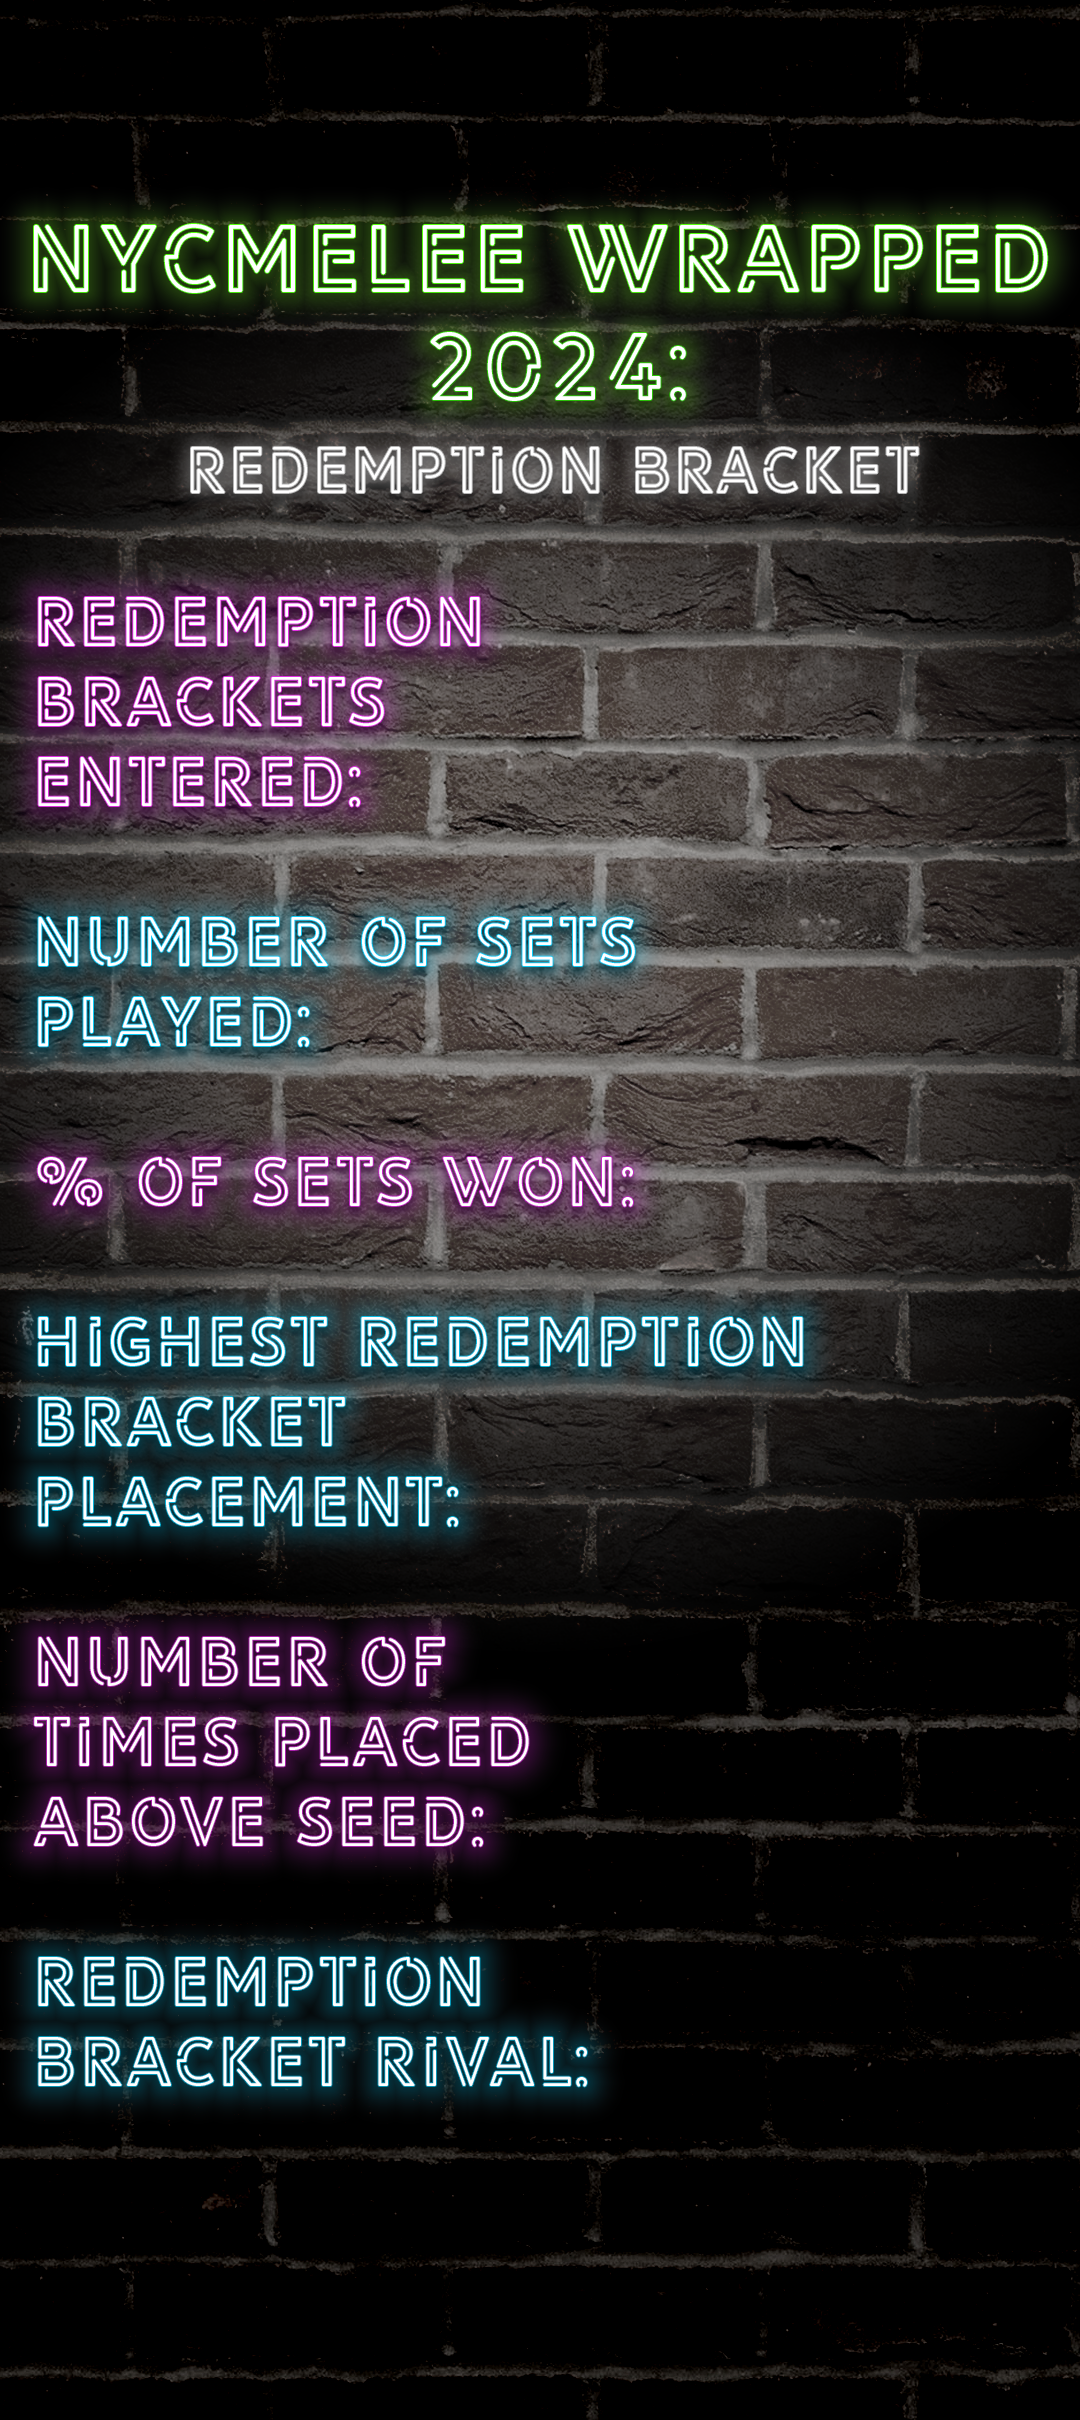
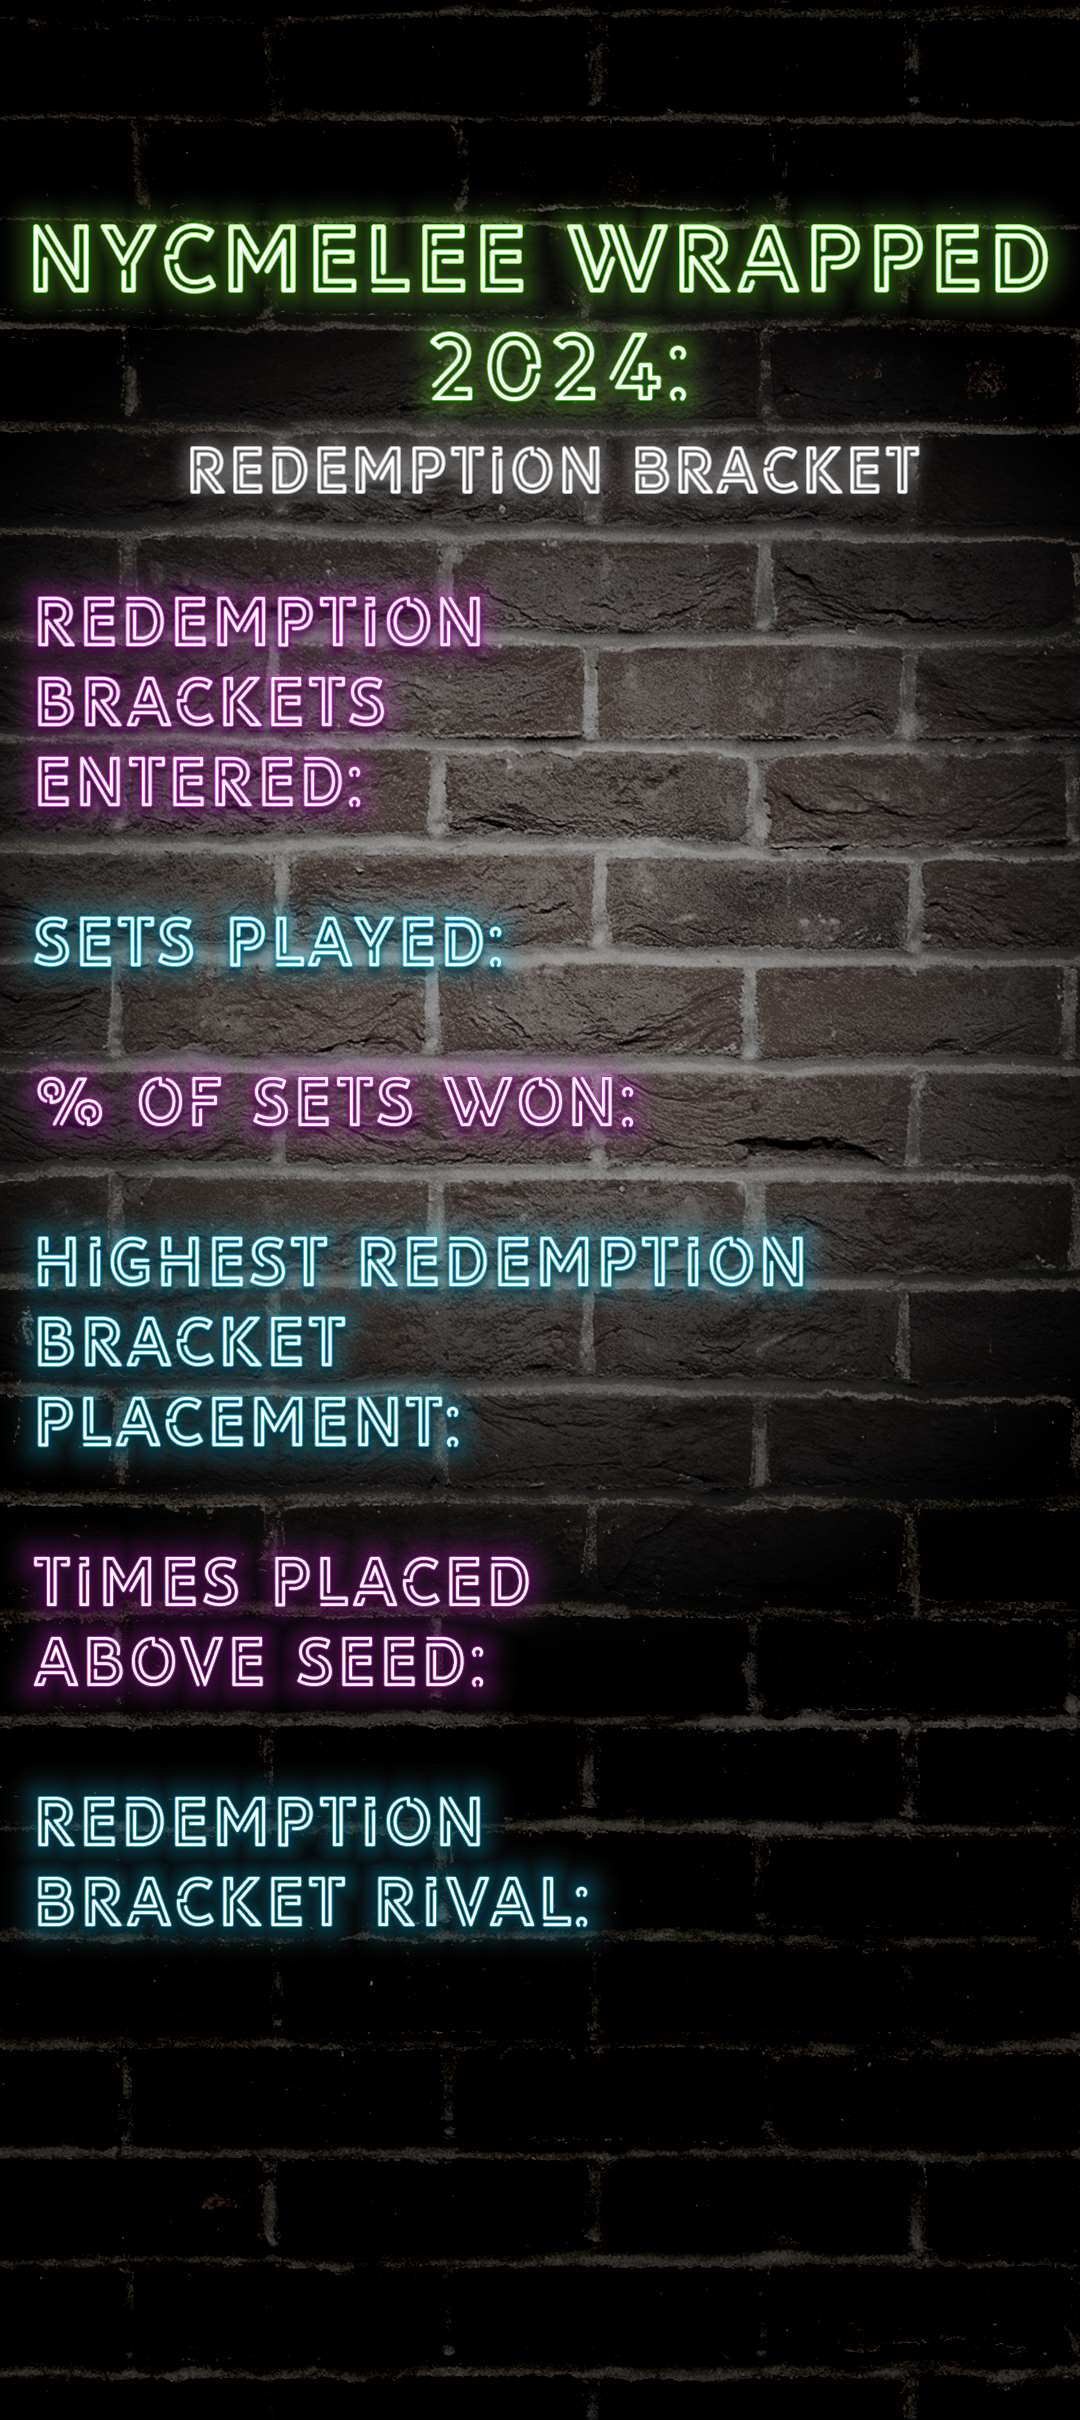
add updated backgrounds, adjust data location on image

Changed region(s): [[0.0, 0.3719, 0.7639, 0.8678]]

diff --git a/nightclub-wrapped-app/src/NightclubCanvasStats/index.js b/nightclub-wrapped-app/src/NightclubCanvasStats/index.js
@@ -81,22 +81,22 @@ export default function NightclubStatsImage() {
 
           ctx.drawImage(nightclubStats, 0, 0, canvas.width, canvas.height);
 
-          ctx.font = "36px Library3AM"; // Patti's font for Nightclub stats
+          ctx.font = "28px Library3AM"; // Patti's font for Nightclub stats
           ctx.fillStyle = "violet";
           ctx.textAlign = "right";
             // potentially alternate fillStyle (color) for each stat, between violet and cyan
 
           ctx.fillText(playerData.tournamentsAttended, 255, 220); // tournaments attended stat
-          ctx.fillText(playerData.main.setsPlayed, 255, 270); // total sets played stat
-          ctx.fillText(Math.floor(100 * (playerData.main.setsWon / playerData.main.setsPlayed)), 255, 320); // % of sets won stat
-          ctx.fillText(playerData.main.bestPlacement.placement, 255, 380); // highest placement stat
+          ctx.fillText(playerData.main.setsPlayed, 255, 262); // total sets played stat
+          ctx.fillText(Math.floor(100 * (playerData.main.setsWon / playerData.main.setsPlayed)), 255, 300); // % of sets won stat
+          ctx.fillText(playerData.main.bestPlacement.placement, 255, 360); // highest placement stat
           // ^ add flavor text to it (17th, 1st, note that different placements end with different letters)
-          ctx.fillText(playerData.main.timesOutplacedSeed, 255, 460); // times outplaced seed stat
+          ctx.fillText(playerData.main.timesOutplacedSeed, 255, 420); // times outplaced seed stat
 
             ctx.font = "20px Library3AM" // change font to smaller size? May need to be dynamic based on tag length
                                         // other option is to put tag below maybe?
             ctx.fillStyle = "cyan";
-            ctx.fillText(playerData.main.rival.tag, 90, 525); // bracket Rival stat
+            ctx.fillText(playerData.main.rival.tag, 255, 505); // bracket Rival stat
             const isTop8 = () => {
                 if (playerData.main.topEightFinishes > 0) {
                     ctx.drawImage(top8Badge, 160, 505, 100, 100)
@@ -177,22 +177,22 @@ export function NightclubRedemptionStatsImage() {
 
           ctx.drawImage(nightclubStats, 0, 0, canvas.width, canvas.height);
 
-          ctx.font = "36px Library3AM"; // Patti's font for Nightclub stats
+          ctx.font = "28px Library3AM"; // Patti's font for Nightclub stats
           ctx.fillStyle = "violet";
           ctx.textAlign = "right";
             // potentially alternate fillStyle (color) for each stat, between violet and cyan
 
-          ctx.fillText(playerData.tournamentsAttended, 255, 200); // tournaments attended stat
-          ctx.fillText(playerData.redemption.setsPlayed, 255, 260); // total sets played stat
-          ctx.fillText(Math.floor(100 * (playerData.redemption.setsWon / playerData.redemption.setsPlayed)), 255, 305); // % of sets won stat
-          ctx.fillText(playerData.redemption.bestPlacement.placement, 255, 381); // highest placement stat
+          ctx.fillText(playerData.tournamentsAttended, 255, 205); // tournaments attended stat
+          ctx.fillText(playerData.redemption.setsPlayed, 255, 245); // total sets played stat
+          ctx.fillText(Math.floor(100 * (playerData.redemption.setsWon / playerData.redemption.setsPlayed)), 255, 285); // % of sets won stat
+          ctx.fillText(playerData.redemption.bestPlacement.placement, 255, 363); // highest placement stat
           // ^ add flavor text to it (17th, 1st, note that different placements end with different letters)
-          ctx.fillText(playerData.redemption.timesOutplacedSeed, 255, 460); // times outplaced seed stat
+          ctx.fillText(playerData.redemption.timesOutplacedSeed, 255, 422); // times outplaced seed stat
 
             ctx.font = "20px Library3AM" // change font to smaller size? May need to be dynamic based on tag length
                                         // other option is to put tag below maybe?
             ctx.fillStyle = "cyan";
-            ctx.fillText(playerData.redemption.rival.tag, 95, 545); // bracket Rival stat
+            ctx.fillText(playerData.redemption.rival.tag, 255, 509); // bracket Rival stat
 
             const isTop8 = () => {
                 if (playerData.redemption.topEightFinishes > 0) {
